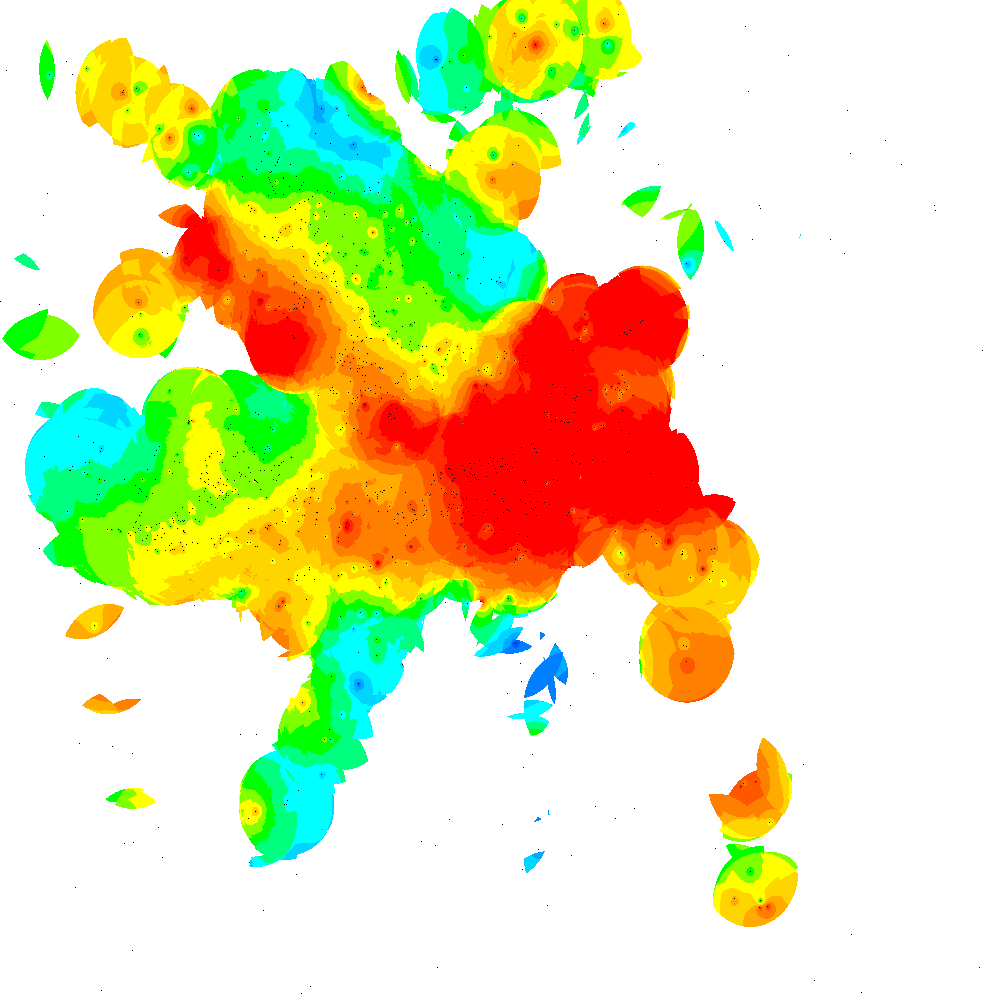
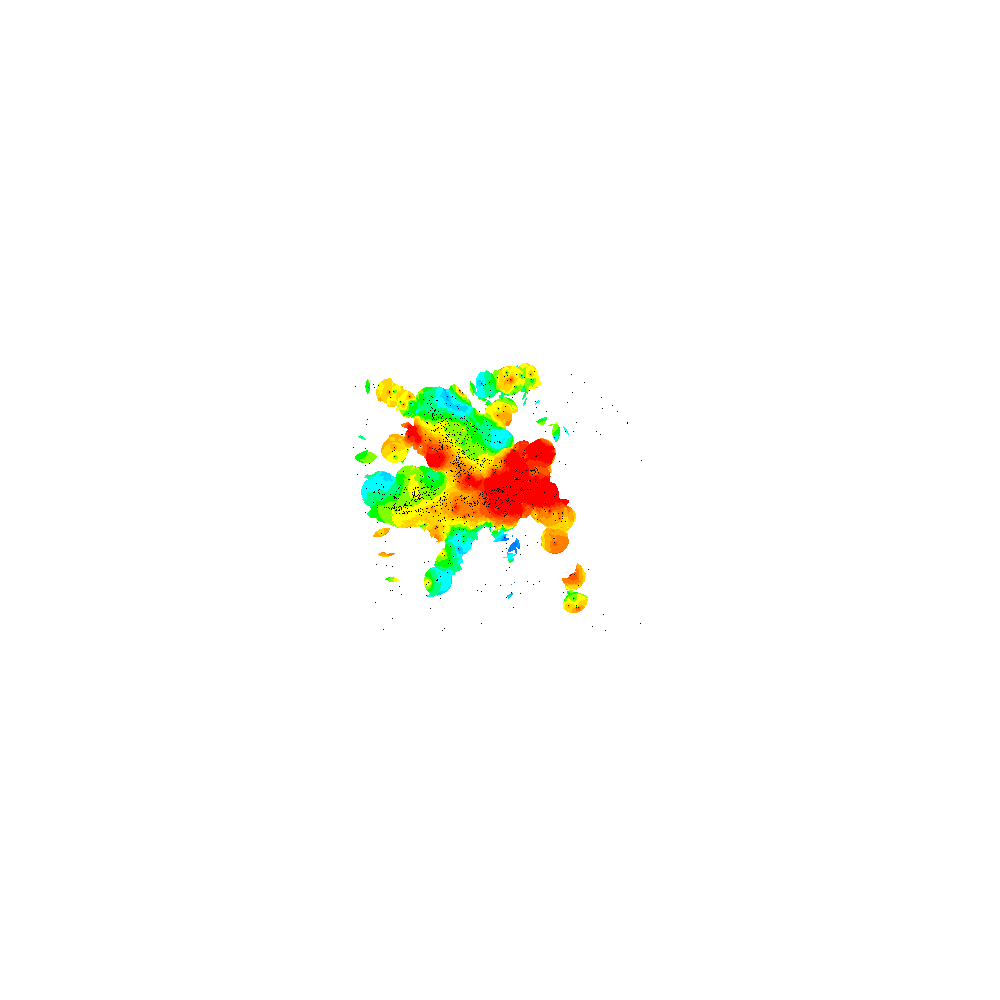
added apt prices scripts

diff --git a/gmaps_hp/hp_overlay.js b/gmaps_hp/hp_overlay.js
@@ -11,8 +11,8 @@ function initialize() {
     };
 
     var map = new google.maps.Map(document.getElementById('map-canvas'), mapOptions);
-    var swBound = new google.maps.LatLng(42.255594, -71.1828231);
-    var neBound = new google.maps.LatLng(42.4351936, -70.97580);
+    var swBound = new google.maps.LatLng(42.005594, -71.4328231);
+    var neBound = new google.maps.LatLng(42.6851936, -70.72580);
     var bounds = new google.maps.LatLngBounds(swBound, neBound);
 
     // Photograph courtesy of the U.S. Geological Survey
